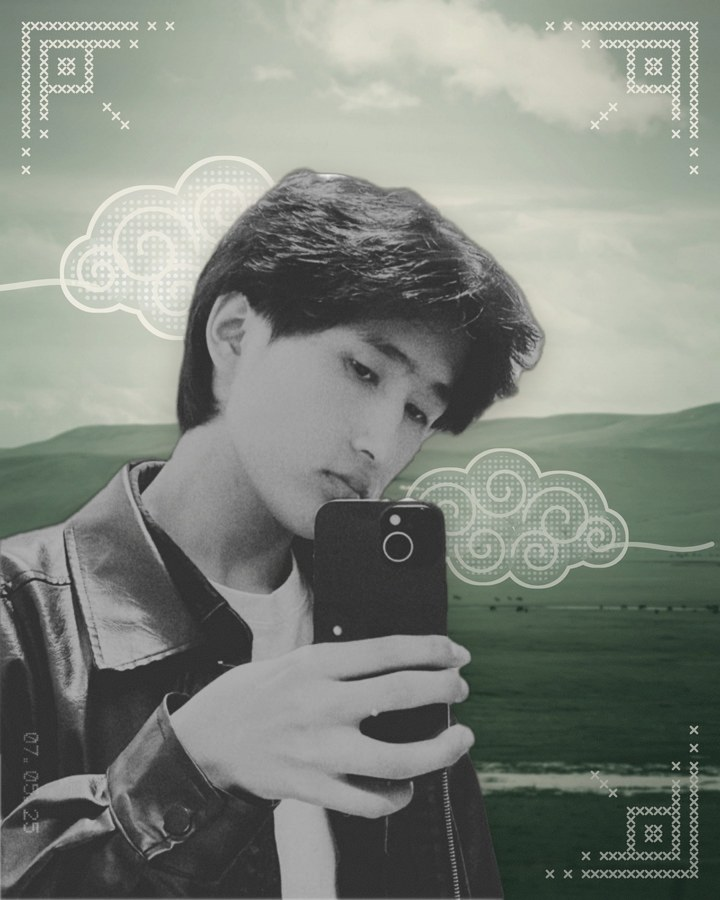
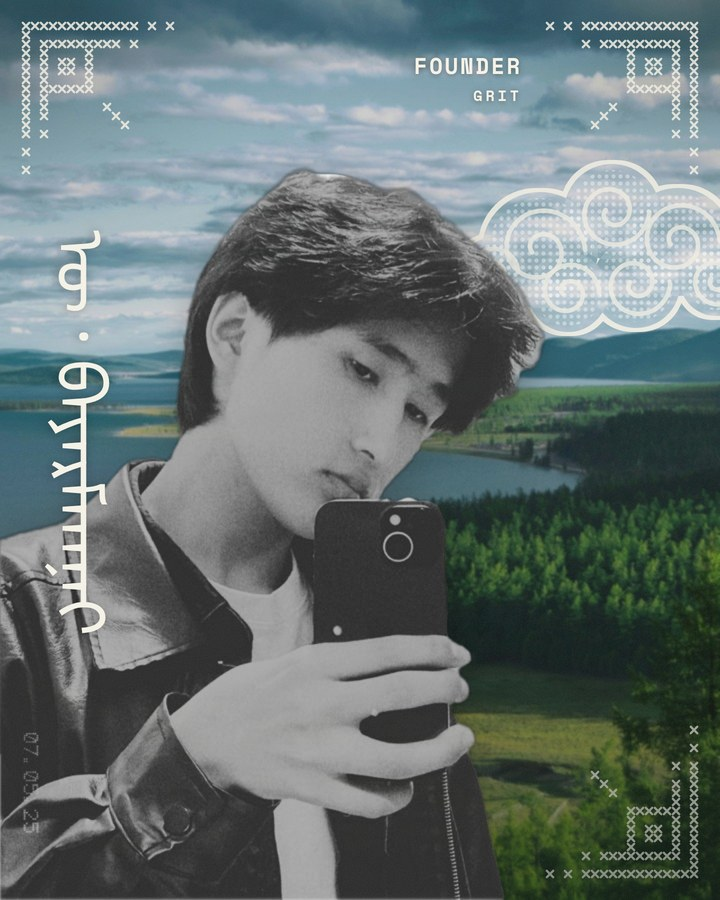
Team and speaker photos: lake background, cloud pattern, Mongolian-script names and roles
Claude-Session: https://claude.ai/code/session_015w2YeaPuoH2UidzmstFP66

diff --git a/index.html b/index.html
@@ -278,7 +278,7 @@
       <div class="marquee speakers-row" data-reveal>
         <div class="speaker">
           <div class="speaker__photo">
-            <img src="assets/img/speaker-urangoo.jpg" alt="Urangoo Shinedelger" loading="lazy">
+            <img src="assets/img/speaker-urangoo.jpg?v=2" alt="Urangoo Shinedelger" loading="lazy">
             <span class="speaker__school"><img src="assets/img/schools/stanford.svg" alt="Stanford University"></span>
           </div>
           <p class="speaker__name">Urangoo Shinedelger</p>
@@ -286,7 +286,7 @@
         </div>
         <div class="speaker">
           <div class="speaker__photo">
-            <img src="assets/img/speaker-garid.jpg" alt="Garid Mendbayar" loading="lazy">
+            <img src="assets/img/speaker-garid.jpg?v=2" alt="Garid Mendbayar" loading="lazy">
             <span class="speaker__school"><img src="assets/img/schools/vanderbilt.png?v=3" alt="Vanderbilt University"></span>
           </div>
           <p class="speaker__name">Garid Mendbayar</p>
@@ -294,7 +294,7 @@
         </div>
         <div class="speaker">
           <div class="speaker__photo">
-            <img src="assets/img/speaker-bayarmaa.jpg" alt="Bayarmaa Altankhishig" loading="lazy">
+            <img src="assets/img/speaker-bayarmaa.jpg?v=2" alt="Bayarmaa Altankhishig" loading="lazy">
             <span class="speaker__school"><img src="assets/img/schools/bocconi.png" alt="Bocconi University"></span>
           </div>
           <p class="speaker__name">Bayarmaa Altankhishig</p>
@@ -302,7 +302,7 @@
         </div>
         <div class="speaker">
           <div class="speaker__photo">
-            <img src="assets/img/speaker-anar.jpg" alt="Anar Battogtokh" loading="lazy">
+            <img src="assets/img/speaker-anar.jpg?v=2" alt="Anar Battogtokh" loading="lazy">
             <span class="speaker__school"><img src="assets/img/schools/cornell.svg" alt="Cornell University"></span>
           </div>
           <p class="speaker__name">Anar Battogtokh</p>
@@ -310,7 +310,7 @@
         </div>
         <div class="speaker">
           <div class="speaker__photo">
-            <img src="assets/img/speaker-tsolmon.jpg" alt="Tsolmon Baasantsogt" loading="lazy">
+            <img src="assets/img/speaker-tsolmon.jpg?v=2" alt="Tsolmon Baasantsogt" loading="lazy">
             <span class="speaker__school"><img src="assets/img/schools/yonsei.png?v=2" alt="Yonsei University"></span>
           </div>
           <p class="speaker__name">Tsolmon Baasantsogt</p>
@@ -318,7 +318,7 @@
         </div>
         <div class="speaker">
           <div class="speaker__photo">
-            <img src="assets/img/speaker-tulga.jpg" alt="Tulga Bayarnyam" loading="lazy">
+            <img src="assets/img/speaker-tulga.jpg?v=2" alt="Tulga Bayarnyam" loading="lazy">
             <span class="speaker__school"><img src="assets/img/schools/skku.png?v=2" alt="Sungkyunkwan University"></span>
           </div>
           <p class="speaker__name">Tulga Bayarnyam</p>
@@ -326,7 +326,7 @@
         </div>
         <div class="speaker">
           <div class="speaker__photo">
-            <img src="assets/img/speaker-anu.jpg" alt="Anu Otgonjargal" loading="lazy">
+            <img src="assets/img/speaker-anu.jpg?v=2" alt="Anu Otgonjargal" loading="lazy">
             <span class="speaker__school speaker__school--fill"><img src="assets/img/schools/absolute.png" alt="Absolute School of English"></span>
           </div>
           <p class="speaker__name">Anu Otgonjargal</p>
@@ -342,49 +342,49 @@
       </div>
       <div class="marquee" data-reveal>
         <a class="member" href="member.html?m=bayarmagnai">
-          <div class="member__photo"><img src="assets/img/team-bayarmagnai.jpg?v=4" alt="Bayarmagnai Usukhgerel, Founder of GRIT" loading="lazy"></div>
+          <div class="member__photo"><img src="assets/img/team-bayarmagnai.jpg?v=5" alt="Bayarmagnai Usukhgerel, Founder of GRIT" loading="lazy"></div>
           <p class="member__name">Bayarmagnai Usukhgerel</p>
           <p class="member__school">Founder of GRIT</p>
         </a>
         <a class="member" href="member.html?m=namuunbayar">
-          <div class="member__photo"><img src="assets/img/team-1.jpg?v=4" alt="M. Namuunbayar, Graphic Designer, GRIT EDU program" loading="lazy"></div>
+          <div class="member__photo"><img src="assets/img/team-1.jpg?v=5" alt="M. Namuunbayar, Graphic Designer, GRIT EDU program" loading="lazy"></div>
           <p class="member__name">M. Namuunbayar</p>
           <p class="member__school">Graphic Designer, GRIT EDU program</p>
         </a>
         <a class="member" href="member.html?m=anar">
-          <div class="member__photo"><img src="assets/img/team-2.jpg?v=4" alt="B. Anar, Teacher, GRIT EDU program" loading="lazy"></div>
+          <div class="member__photo"><img src="assets/img/team-2.jpg?v=5" alt="B. Anar, Teacher, GRIT EDU program" loading="lazy"></div>
           <p class="member__name">B. Anar</p>
           <p class="member__school">Teacher, GRIT EDU program</p>
         </a>
         <a class="member" href="member.html?m=munkhdalai">
-          <div class="member__photo"><img src="assets/img/team-3.jpg?v=4" alt="B. Munkhdalai, Teacher, GRIT EDU program" loading="lazy"></div>
+          <div class="member__photo"><img src="assets/img/team-3.jpg?v=5" alt="B. Munkhdalai, Teacher, GRIT EDU program" loading="lazy"></div>
           <p class="member__name">B. Munkhdalai</p>
           <p class="member__school">Teacher, GRIT EDU program</p>
         </a>
         <a class="member" href="member.html?m=enkhgerel">
-          <div class="member__photo"><img src="assets/img/team-4.jpg?v=4" alt="O. Enkhgerel, Manager, GRIT EDU program" loading="lazy"></div>
+          <div class="member__photo"><img src="assets/img/team-4.jpg?v=5" alt="O. Enkhgerel, Manager, GRIT EDU program" loading="lazy"></div>
           <p class="member__name">O. Enkhgerel</p>
           <p class="member__school">Manager, GRIT EDU program</p>
         </a>
         <a class="member" href="member.html?m=tulga">
-          <div class="member__photo"><img src="assets/img/team-5.jpg?v=4" alt="B. Tulga, Teacher, GRIT EDU program" loading="lazy"></div>
+          <div class="member__photo"><img src="assets/img/team-5.jpg?v=5" alt="B. Tulga, Teacher, GRIT EDU program" loading="lazy"></div>
           <p class="member__name">B. Tulga</p>
           <p class="member__school">Teacher, GRIT EDU program</p>
         </a>
         <!-- hidden for now
         <a class="member" href="member.html?m=batzorigt">
-          <div class="member__photo"><img src="assets/img/team-batzorigt.jpg?v=4" alt="G. Batzorigt, Teacher, GRIT EDU program" loading="lazy"></div>
+          <div class="member__photo"><img src="assets/img/team-batzorigt.jpg?v=5" alt="G. Batzorigt, Teacher, GRIT EDU program" loading="lazy"></div>
           <p class="member__name">G. Batzorigt</p>
           <p class="member__school">Teacher, GRIT EDU program</p>
         </a>
         -->
         <a class="member" href="member.html?m=nomin">
-          <div class="member__photo"><img src="assets/img/team-nomin.jpg?v=4" alt="B. Nomin, Teacher, GRIT EDU program" loading="lazy"></div>
+          <div class="member__photo"><img src="assets/img/team-nomin.jpg?v=5" alt="B. Nomin, Teacher, GRIT EDU program" loading="lazy"></div>
           <p class="member__name">B. Nomin</p>
           <p class="member__school">Teacher, GRIT EDU program</p>
         </a>
         <a class="member" href="member.html?m=namuun">
-          <div class="member__photo"><img src="assets/img/team-namuun.jpg?v=4" alt="J. Namuun, Teacher, GRIT EDU program" loading="lazy"></div>
+          <div class="member__photo"><img src="assets/img/team-namuun.jpg?v=5" alt="J. Namuun, Teacher, GRIT EDU program" loading="lazy"></div>
           <p class="member__name">J. Namuun</p>
           <p class="member__school">Teacher, GRIT EDU program</p>
         </a>

diff --git a/js/team.js b/js/team.js
@@ -4,63 +4,63 @@ const TEAM = {
   bayarmagnai: {
     name: "Bayarmagnai Usukhgerel",
     role: "Founder of GRIT",
-    photo: "assets/img/team-bayarmagnai.jpg?v=4",
+    photo: "assets/img/team-bayarmagnai.jpg?v=5",
     responsibilities: "Program lead: finance, organization, university application classes",
     bio: [],
   },
   namuunbayar: {
     name: "M. Namuunbayar",
     role: "Graphic Designer",
-    photo: "assets/img/team-1.jpg?v=4",
+    photo: "assets/img/team-1.jpg?v=5",
     responsibilities: "Design and content",
     bio: [],
   },
   anar: {
     name: "B. Anar",
     role: "Teacher",
-    photo: "assets/img/team-2.jpg?v=4",
+    photo: "assets/img/team-2.jpg?v=5",
     responsibilities: "Teaching",
     bio: [],
   },
   munkhdalai: {
     name: "B. Munkhdalai",
     role: "English Teacher",
-    photo: "assets/img/team-3.jpg?v=4",
+    photo: "assets/img/team-3.jpg?v=5",
     responsibilities: "English, country information",
     bio: [],
   },
   enkhgerel: {
     name: "O. Enkhgerel",
     role: "Program Manager",
-    photo: "assets/img/team-4.jpg?v=4",
+    photo: "assets/img/team-4.jpg?v=5",
     responsibilities: "Organization, country information",
     bio: [],
   },
   tulga: {
     name: "B. Tulga",
     role: "English Teacher",
-    photo: "assets/img/team-5.jpg?v=4",
+    photo: "assets/img/team-5.jpg?v=5",
     responsibilities: "English, cooking",
     bio: [],
   },
   batzorigt: {
     name: "G. Batzorigt",
     role: "Teacher",
-    photo: "assets/img/team-batzorigt.jpg?v=4",
+    photo: "assets/img/team-batzorigt.jpg?v=5",
     responsibilities: "Teaching",
     bio: [],
   },
   nomin: {
     name: "B. Nomin",
     role: "Teacher",
-    photo: "assets/img/team-nomin.jpg?v=4",
+    photo: "assets/img/team-nomin.jpg?v=5",
     responsibilities: "English, country information",
     bio: [],
   },
   namuun: {
     name: "J. Namuun",
     role: "Teacher",
-    photo: "assets/img/team-namuun.jpg?v=4",
+    photo: "assets/img/team-namuun.jpg?v=5",
     responsibilities: "University applications, country information",
     bio: [],
   },

diff --git a/member.html b/member.html
@@ -57,7 +57,7 @@
 
   <main>
     <section class="container profile" id="profile">
-      <div class="profile__photo" data-reveal><img id="member-photo" src="assets/img/team-1.jpg?v=4" alt=""></div>
+      <div class="profile__photo" data-reveal><img id="member-photo" src="assets/img/team-1.jpg?v=5" alt=""></div>
       <div>
         <p class="eyebrow" data-reveal>GRIT team · GRIT EDU program</p>
         <h1 class="profile__name" id="member-name" data-reveal>M. Namuunbayar</h1>
